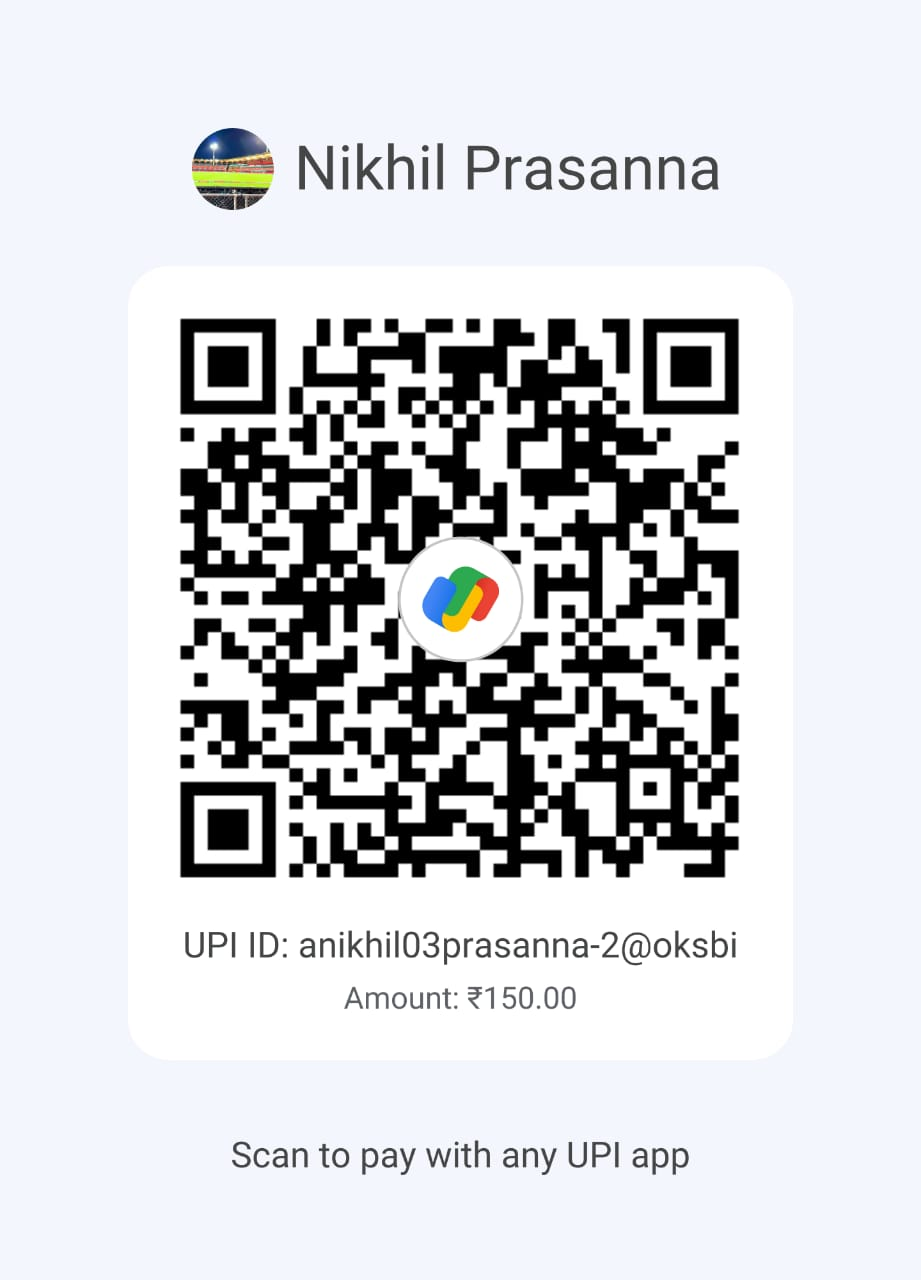
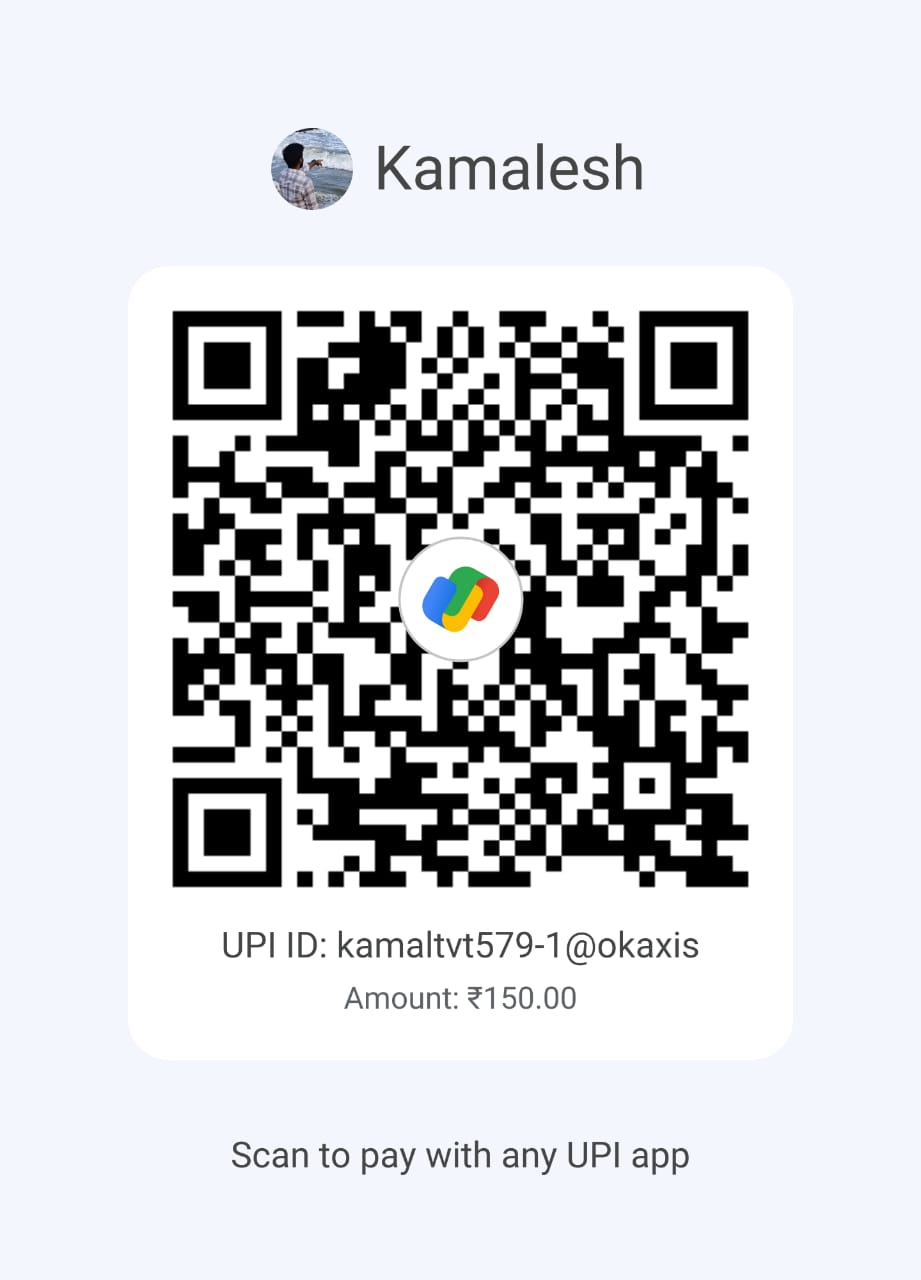
color updated

Changed region(s): [[0.1824, 0.2188, 0.8208, 0.75], [0.2128, 0.0938, 0.7904, 0.1875]]

diff --git a/src/constants/workshops.js b/src/constants/workshops.js
@@ -1,9 +1,9 @@
 import ML from "../assets/Reach/ML.png";
 import placement from "../assets/Reach/placement.svg";
 import UI from "../assets/images/mobile-app-ux-ui-basics.jpg";
-import GENAI_300 from "../assets/Reach/300.jpg";
+import UI_300 from "../assets/Reach/300.jpg";
 import UI_150 from "../assets/Reach/150.jpg";
-import GENAI_1200 from "../assets/Reach/1200.jpg";
+import UI_1200 from "../assets/Reach/1200.jpg";
 import PAY from "../assets/Reach/new.jpg"
 import LLM from '../assets/Reach/llm.png';
 import BACKEND from '../assets/Reach/pythonwo.png';
@@ -14,7 +14,7 @@ export const workshopsReach = [
     to: "LLM",
     image: LLM,
 
-    qr: UI_150,
+    qr: UI_300,
     venue: [
       {
         name: "PSNA College of Engineering and Technology",
@@ -50,8 +50,8 @@ export const workshopsReach = [
     title: "Backend Development from Zero to API (Python + FastAPI)",
     to: "backend",
     image: BACKEND,
-    bulkBooking: PAY,
-    qr: GENAI_300,
+    // bulkBooking: PAY,
+    qr: UI_150,
     venue: [
       {
         name: "PSNA College of Engineering and Technology",
@@ -113,6 +113,6 @@ export const sessions = [
     title: "Placement Session",
     image: placement,
     content:
-      "Participate in focused sessions on interview techniques, enhancing your confidence and readiness for placement scenarios. Stay informed about current hiring trends and industry expectations, positioning yourself effectively during placement processes. Engage in simulated interview experiences, receiving valuable feedback to optimize your performance in real-world placements.",
+      "Participate in focused sessions on interview techniques, enhancing your confidence and wadiness for placement scenarios. Stay informed about current hiring trends and industry expectations, positioning yourself effectively during placement processes. Engage in simulated interview experiences, receiving valuable feedback to optimize your performance in real-world placements.",
   },
 ];

diff --git a/src/pages/Workshops.js b/src/pages/Workshops.js
@@ -53,7 +53,7 @@ const Workshops = () => {
                     navigate(`${workshop.to}`);
                   }}
                 >
-                  Read More {`<~>`}
+                  wwead More {`<~>`}
               </button>
             </div>
           ))}

diff --git a/src/pages/Dashboard/components/Workshops.jsx b/src/pages/Dashboard/components/Workshops.jsx
@@ -159,5 +159,5 @@ const Workshops = () => {
     </div>
   );
 };
-
+ww
 export default Workshops;
